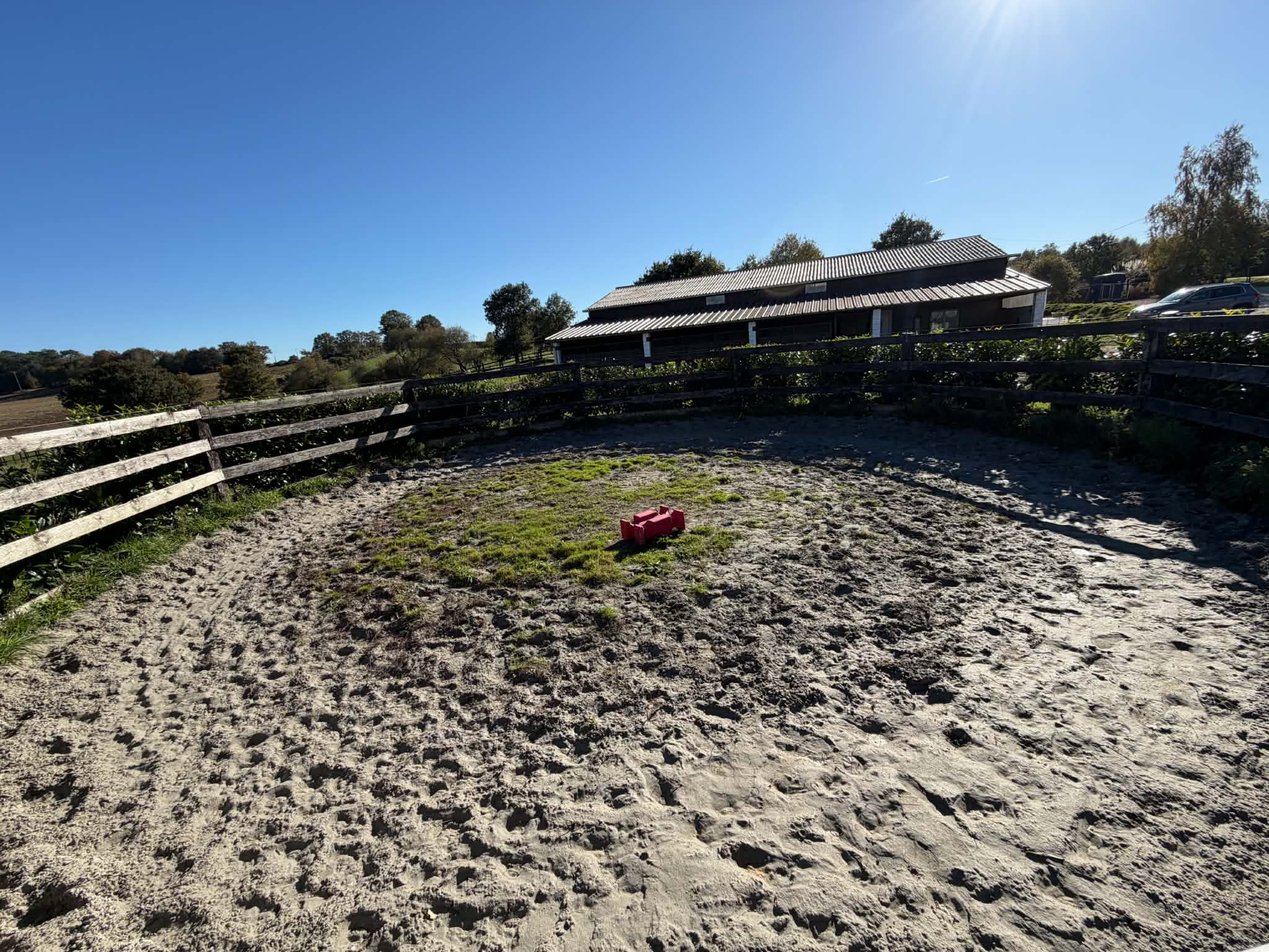
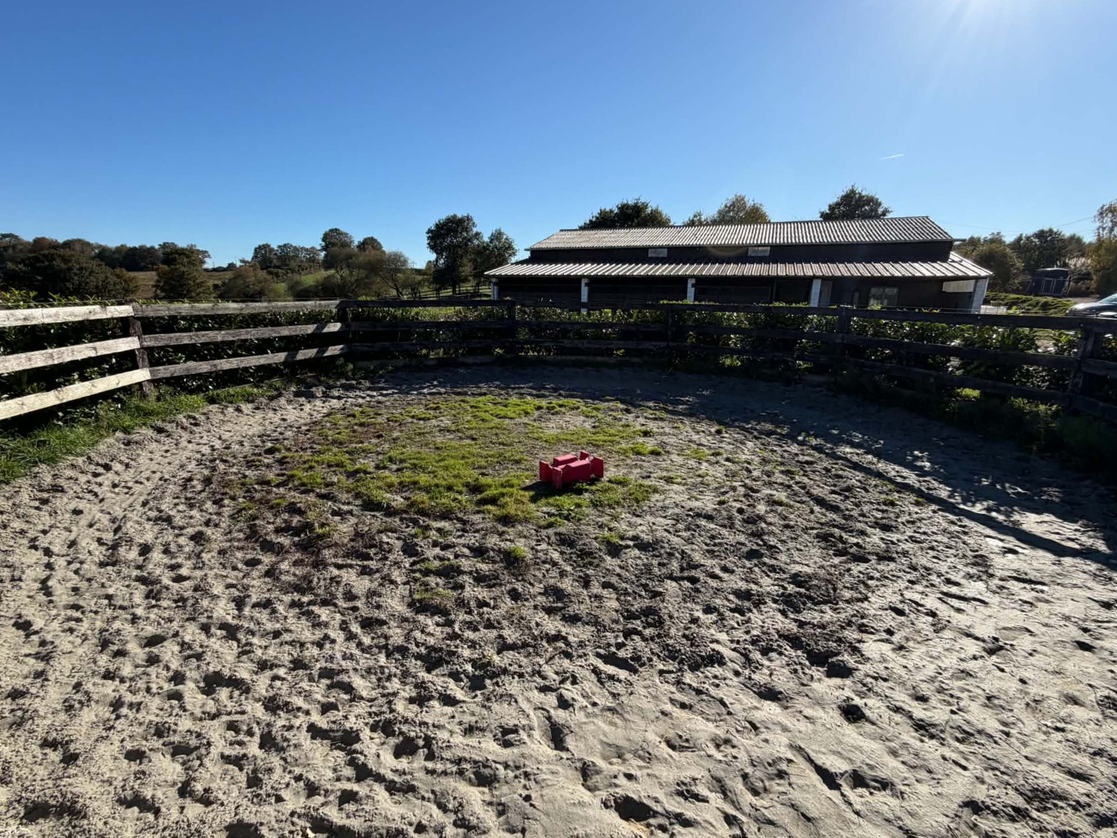
MAJ

diff --git a/installations.html b/installations.html
@@ -124,7 +124,6 @@
 												</div>
 											</section>
 
-
 											<section>
 											<h2 style="text-align: center;">Prés</h2>
 												<div class="prestations-container">
@@ -172,19 +171,36 @@
 													</div>
 												</div>
 											</section>
-											
-											<section>
-											<h2 style="text-align: center;">Transport des chevaux</h2>
+
+																						<section>
+											<h2 style="text-align: center;">Rond de longe</h2>
 												<div class="prestations-container">
 													<!-- Colonne gauche : titre + texte -->
 													<div class="prestations-texte">
 														
 														<ul class="prestations-liste">
-															<li>Van 2 places</li>
-															<li>Camion Mercedes 2 places chevaux et 5 places humains</li>
+															<li>Un rond de longe d'un diamètre de 12 m</li>
 														</ul>
 													</div>
 													<!-- Colonne droite : image -->
+													<div class="prestations-image">
+														<img src="images/installations/rond_longe.jpg" alt="Rond de longe de l'écurie Roc Hened à Saint-Jean-Brevelay (56)">
+													</div>
+												</div>
+											</section>
+											
+											<section>
+											<h2 style="text-align: center;">Transport des chevaux</h2>
+												<div class="prestations-container inverse">
+													<!-- Colonne droite : titre + texte -->
+													<div class="prestations-texte">
+														
+														<ul class="prestations-liste">
+															<li>Un van 2 places</li>
+															<li>Un camion Mercedes Benz Sprinter 2 places chevaux et 5 places humains</li>
+														</ul>
+													</div>
+													<!-- Colonne gauche : image -->
 													<div class="prestations-image">
 														<img src="images/installations/installation_camion.jpeg" alt="Transport des chevaux aux écuries Roc Hened dans le Morbihan">
 													</div>
